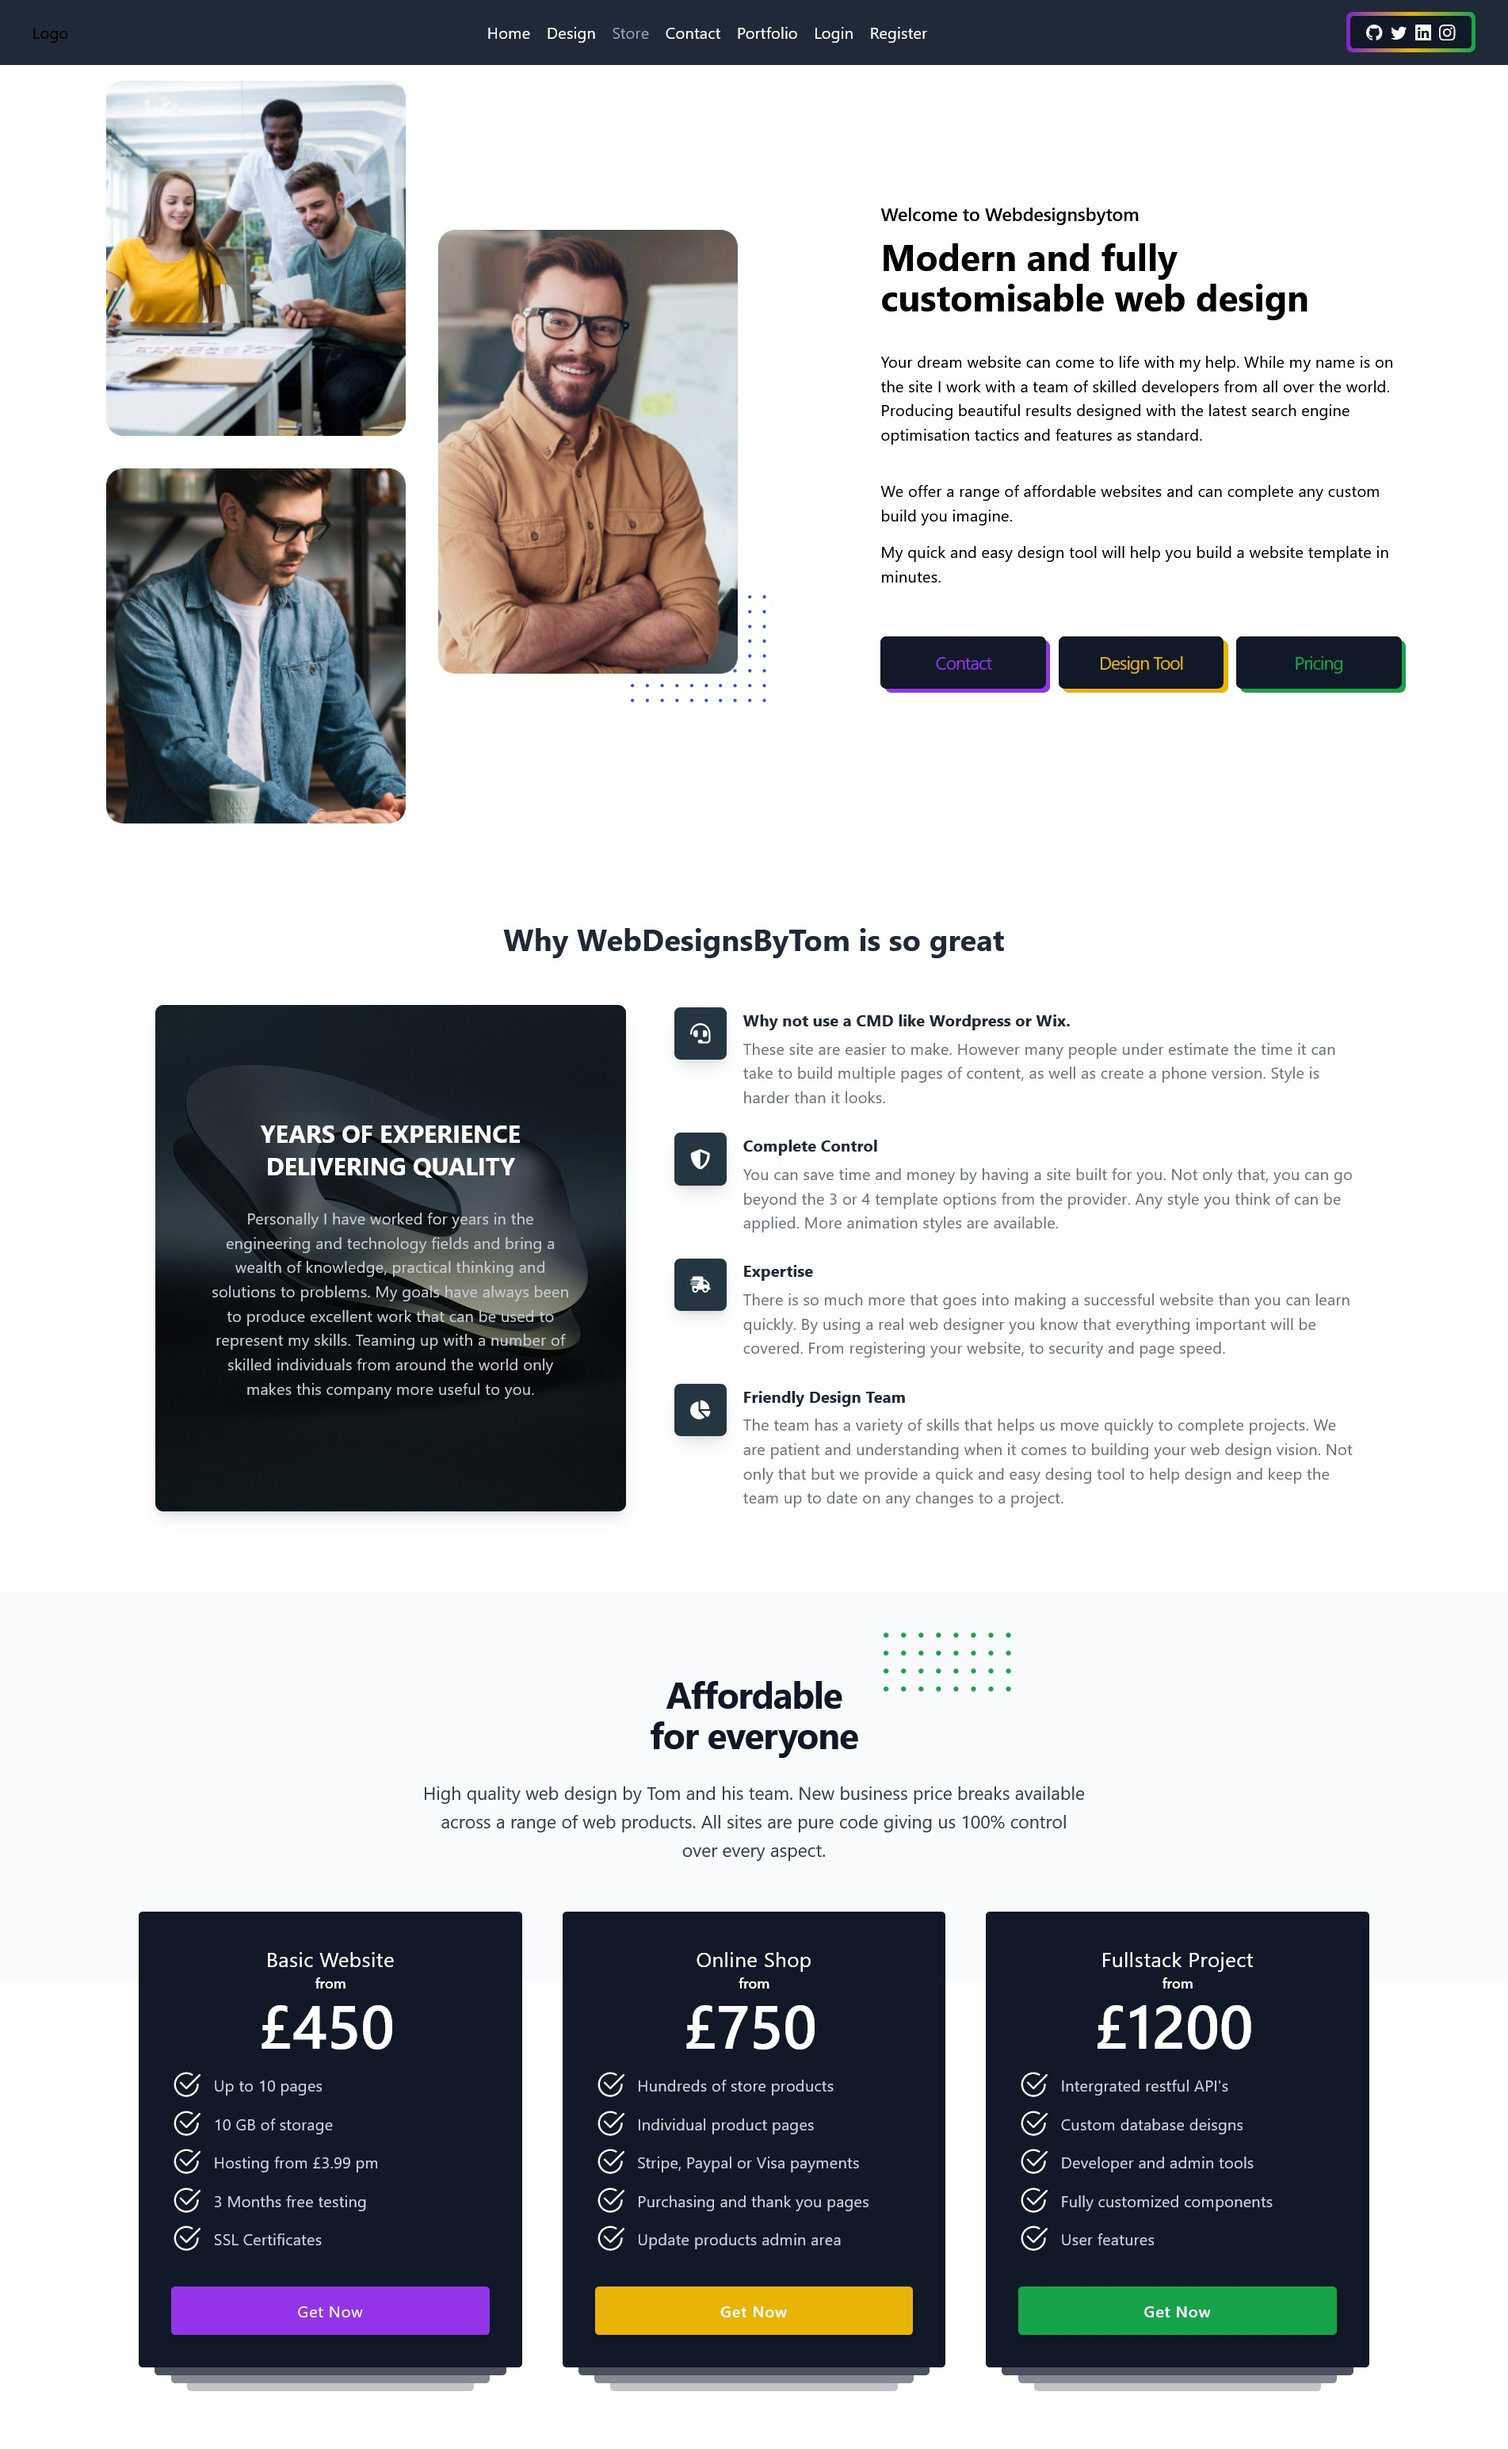
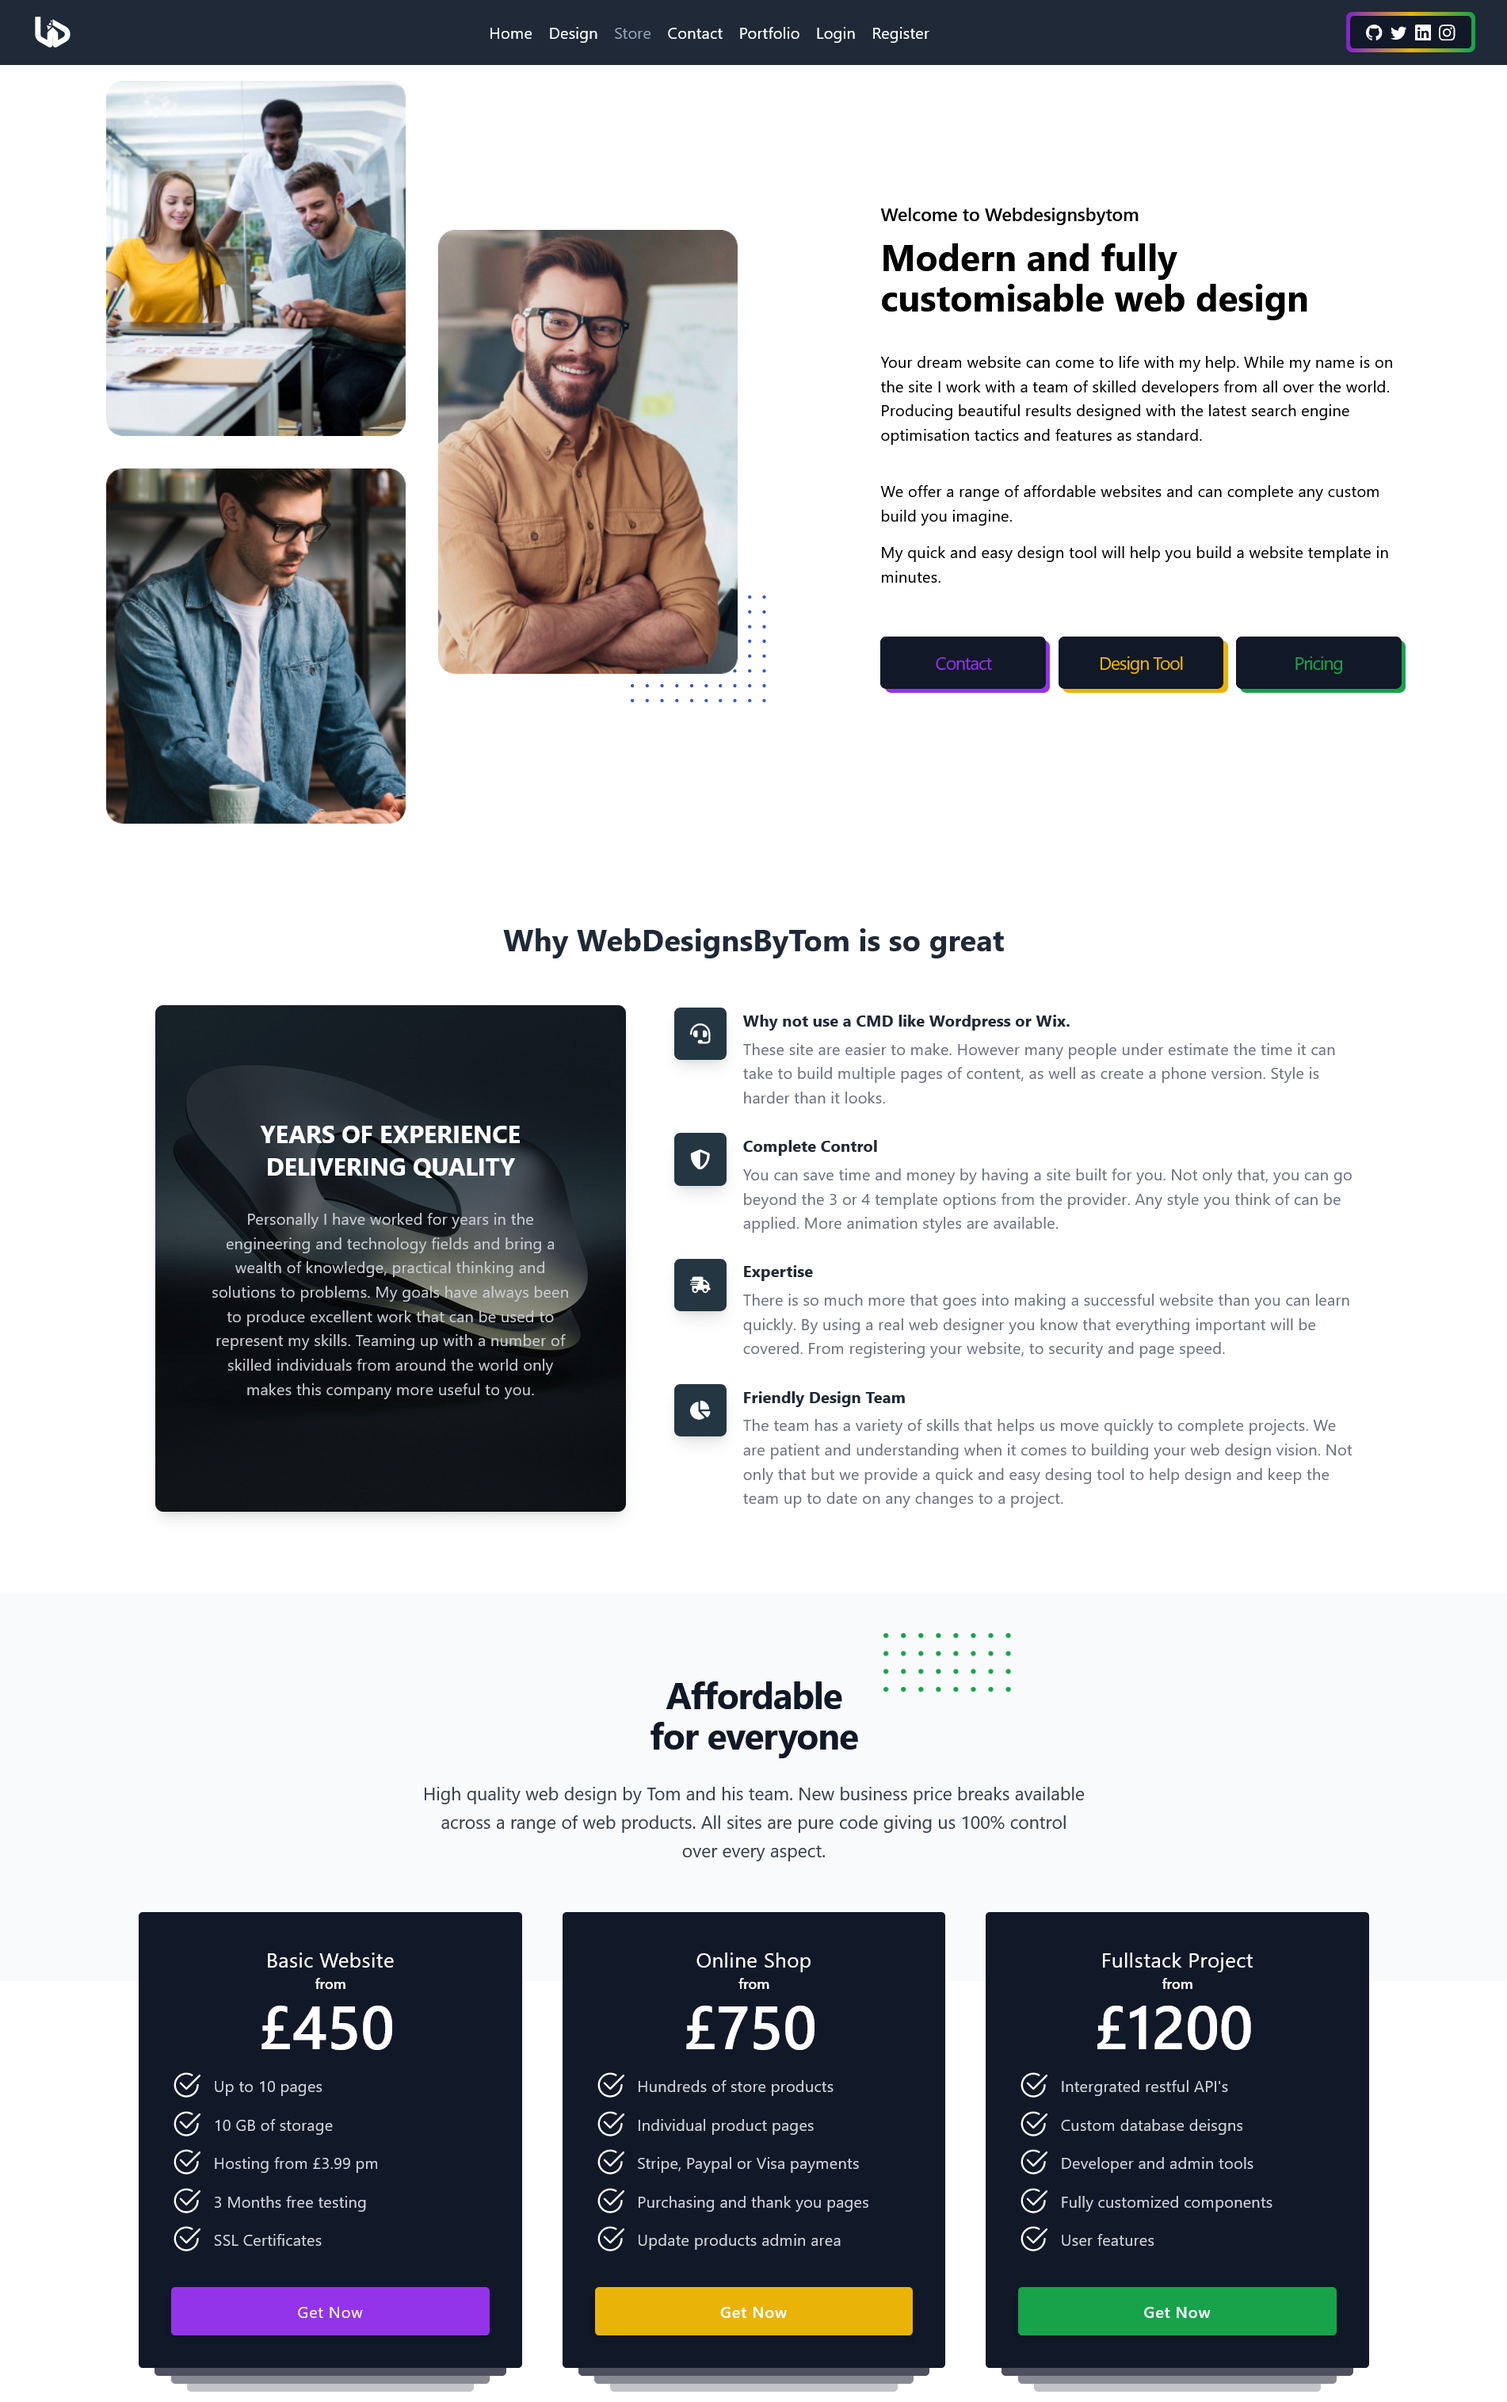
save

diff --git a/server/prisma/seed.js b/server/prisma/seed.js
@@ -142,28 +142,28 @@ async function seed() {
   });
 
   // COMPONENTS
-  const component1 = await dbClient.page.create({
+  const component1 = await dbClient.component.create({
     data: {
       type: 'BASIC',
       name: `Social Media`,
       desc: 'Social media links in a stylish container.',
     },
   });
-  const component2 = await dbClient.page.create({
+  const component2 = await dbClient.component.create({
     data: {
       type: 'BASIC',
       name: `Hero Section`,
       desc: 'A header to the home page. A stylish spash component that shows off your whole website and company in one screen.',
     },
   });
-  const component3 = await dbClient.page.create({
+  const component3 = await dbClient.component.create({
     data: {
       type: 'BASIC',
       name: `Map API`,
       desc: 'Usually found on a contact page. A map can be used to represent your location or your customers current location.',
     },
   });
-  const component4 = await dbClient.page.create({
+  const component4 = await dbClient.component.create({
     data: {
       type: 'FULLSTACK',
       name: `User Profile`,
@@ -177,28 +177,28 @@ async function seed() {
       desc: 'Either as a pop out page or a component to fill the page. Each product can have its own description and images.',
     },
   });
-  const component6 = await dbClient.page.create({
+  const component6 = await dbClient.component.create({
     data: {
       type: 'FULLSTACK',
       name: `Custom animations`,
       desc: 'Using canvas and enough time and money you can create most animations for your site. With the realism of a PS2 cut sceen.',
     },
   });
-  const component7 = await dbClient.page.create({
+  const component7 = await dbClient.component.create({
     data: {
       type: 'SHOP',
       name: `Reviews`,
       desc: 'Reviews are hugely important to business and website SEO, a smart review container is used to present the best.',
     },
   });
-  const component8 = await dbClient.page.create({
+  const component8 = await dbClient.component.create({
     data: {
       type: 'FULLSTACK',
       name: `Chat room`,
       desc: 'Chat rooms take all forms, either in game chat or customer service.',
     },
   });
-  const component9 = await dbClient.page.create({
+  const component9 = await dbClient.component.create({
     data: {
       type: 'BASIC',
       name: `Gallery`,
@@ -212,42 +212,42 @@ async function seed() {
       desc: 'Add video, audio, PDF or youtube videos to your website.',
     },
   });
-  const component11 = await dbClient.page.create({
+  const component11 = await dbClient.component.create({
     data: {
       type: 'FULLSTACK',
       name: `Website Analytics`,
       desc: 'An admin or developer will want to check the website stats. Vistors, location, login, errors and page ranking stats can be compiled as graphs.',
     },
   });
-  const component12 = await dbClient.page.create({
+  const component12 = await dbClient.component.create({
     data: {
       type: 'FULLSTACK',
       name: `Blog, Posts, Comments`,
       desc: 'You might want user comments or interactions. Maybe you publish articles and want to collect comments, likes, reviews or data from readers. ',
     },
   });
-  const component13 = await dbClient.page.create({
+  const component13 = await dbClient.component.create({
     data: {
       type: 'BASIC',
       name: `Loading Animations`,
       desc: 'Websites need a little animation so people can tell they are working. A loading spinner is commonly found on buttons that require waiting for a database response.',
     },
   });
-  const component14 = await dbClient.page.create({
+  const component14 = await dbClient.component.create({
     data: {
       type: 'FULLSTACK',
       name: `Donations`,
       desc: 'Add payment connections to parts of your page where you can take donations from visitors.',
     },
   });
-  const component15 = await dbClient.page.create({
+  const component15 = await dbClient.component.create({
     data: {
       type: 'BASIC',
       name: `Cookies and privacy`,
       desc: 'These bars pop up when you visit a new site and are part of any major project.',
     },
   });
-  const component16 = await dbClient.page.create({
+  const component16 = await dbClient.component.create({
     data: {
       type: 'FULLSTACK',
       name: `Search Bar`,

diff --git a/client/src/pages/heros/NewsletterHero.jsx b/client/src/pages/heros/NewsletterHero.jsx
@@ -22,7 +22,7 @@ function NewsletterHero({ increasePageNumber, decreasePageNumber }) {
   };
 
   return (
-    <div className='relative min-h-screen flex flex-col bg-news-bg bg-cover text-white'>
+    <div className='relative min-h-screen flex flex-col bg-news-bg-phone bg-center lg:bg-news-bg bg-cover text-white'>
       <main className='container mx-auto px-6 pt-6 md:pt-16 flex-1 text-center'>
         <section className='flex md:hidden justify-center pb-6 md:pb-0'>
           <Link to='/store' className='mx-3 hover:opacity-80 duration-150'>
@@ -53,13 +53,7 @@ function NewsletterHero({ increasePageNumber, decreasePageNumber }) {
           943,245 imaginary members
         </div>
 
-        <form
-          action='https://www.getrevue.co/profile/tyler_potts_/add_subscriber'
-          method='post'
-          id='revue-form'
-          name='revue-form'
-          target='_blank'
-        >
+        <form>
           <div className='flex flex-col md:flex-row justify-center mb-4'>
             <input
               onChange={handleChange}

diff --git a/client/src/components/nav/Navbar.jsx b/client/src/components/nav/Navbar.jsx
@@ -22,7 +22,8 @@ import TestIcon from '../../assets/svg/testIcon-white.svg';
 import EventsIcon from '../../assets/svg/eventsIcon-white.svg';
 import Search from '../../assets/svg/searchIcon-white.svg';
 import StoreIcon from '../../assets/svg/storeIcon-white.svg';
-
+// Images
+import WDBT from '../../assets/img/logos/wdbt-white.svg'
 // Components
 import NotificationsPhone from '../notifications/NotificationsPhone';
 import MessagesPhone from '../messages/MessagesPhone';
@@ -163,7 +164,7 @@ function Navbar() {
             }}
             className='inset-y-0 left-0 flex items-center cursor-pointer'
           >
-            Logo
+            <img src={WDBT} className='w-10' alt="Web design by Tom company logo" />
           </div>
           <section className='md:hidden'>
             <h3 className='text-sm capitalize text-colour-dark font-bold'>

diff --git a/client/src/pages/heros/TimeOfDay.jsx b/client/src/pages/heros/TimeOfDay.jsx
@@ -103,6 +103,7 @@ function TimeOfDay({ increasePageNumber, decreasePageNumber }) {
         setButtonOneStyle('day__button__one');
         setButtonTwoStyle('day__button__two');
       } else if (hour < 18) {
+        
         // Afternoon
         if (container.scrollWidth < 600) {
           container.style.backgroundImage =
@@ -318,7 +319,7 @@ function TimeOfDay({ increasePageNumber, decreasePageNumber }) {
                     ></time>
                   </div>
                 </section>
-                <h1 className='text-base md:text-2xl my-2'>
+                <h1 className='text-base md:text-2xl my-2 font-semibold'>
                   <span id='greeting'></span>
                   <span id='name' contenteditable='true'></span>
                 </h1>

diff --git a/client/src/pages/test/TestPage.jsx b/client/src/pages/test/TestPage.jsx
@@ -1,15 +1,8 @@
-import React, { useEffect, useState } from 'react';
-import { Link } from 'react-router-dom';
-// Icons
-import { HiArrowSmLeft } from 'react-icons/hi';
-import { HiArrowSmRight } from 'react-icons/hi';
-import Logo3 from '../../assets/img/logos/WD-02.png'
-import Logo4 from '../../assets/img/logos/WD-04.svg'
+import React from 'react';
 
 function TestPage() {
   return (
-    <div className='grid relative bg-black h-[100vh] w-full'>
-    <img src={Logo4} className='w-20' alt="" />
+    <div className='grid relative bg-green-400 h-[100vh] w-full'>
     </div>
   );
 }

diff --git a/client/src/pages/heros/MapHero.jsx b/client/src/pages/heros/MapHero.jsx
@@ -65,7 +65,7 @@ function MapHero({ increasePageNumber, decreasePageNumber }) {
     <>
       {!toggleNavigation ? (
         <div
-          className={`relative h-screen max-h-screen bg-${currentBg} bg-no-repeat w-full bg-cover bg-[center_right_45%] bg-maps-bg md:bg-center h-full md:bg-contain font-pops`}
+          className={`relative h-screen max-h-screen bg-${currentBg} bg-no-repeat w-full bg-cover bg-[center_right_45%] bg-maps-bg-phone lg:bg-maps-bg md:bg-center h-full md:bg-contain font-pops`}
         >
           {/* Colour select */}
           <section

diff --git a/client/tailwind.config.js b/client/tailwind.config.js
@@ -7,7 +7,9 @@ module.exports = {
     extend: {
       backgroundImage: {
         'news-bg': "url('../assets/img/backgrounds/newsletter-bg.jpg')",
+        'news-bg-phone': "url('../assets/img/backgrounds/newsletter-bg-phone.jpg')",
         'maps-bg': "url('../assets/img/backgrounds/earth-bg.png')",
+        'maps-bg-phone': "url('../assets/img/backgrounds/earth-bg-phone.png')",
       },
       fontFamily: {
         'outfit': 'Outfit',
